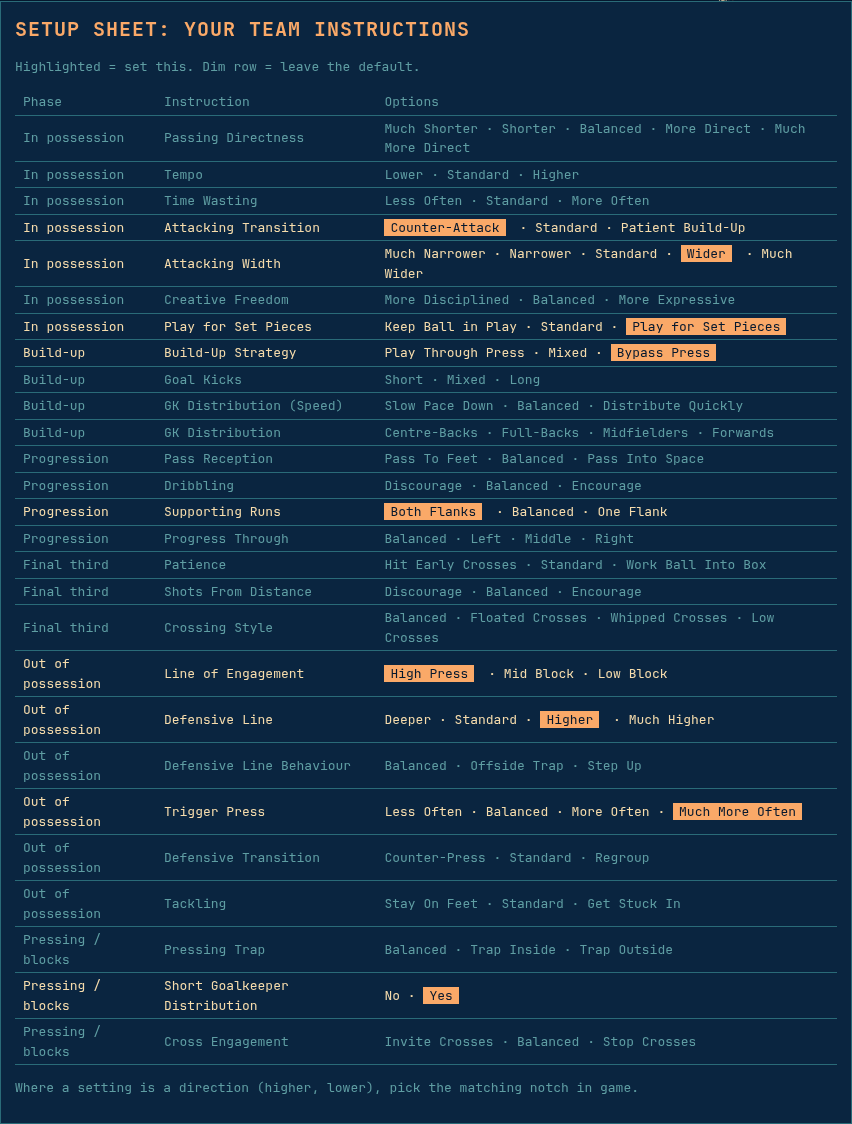
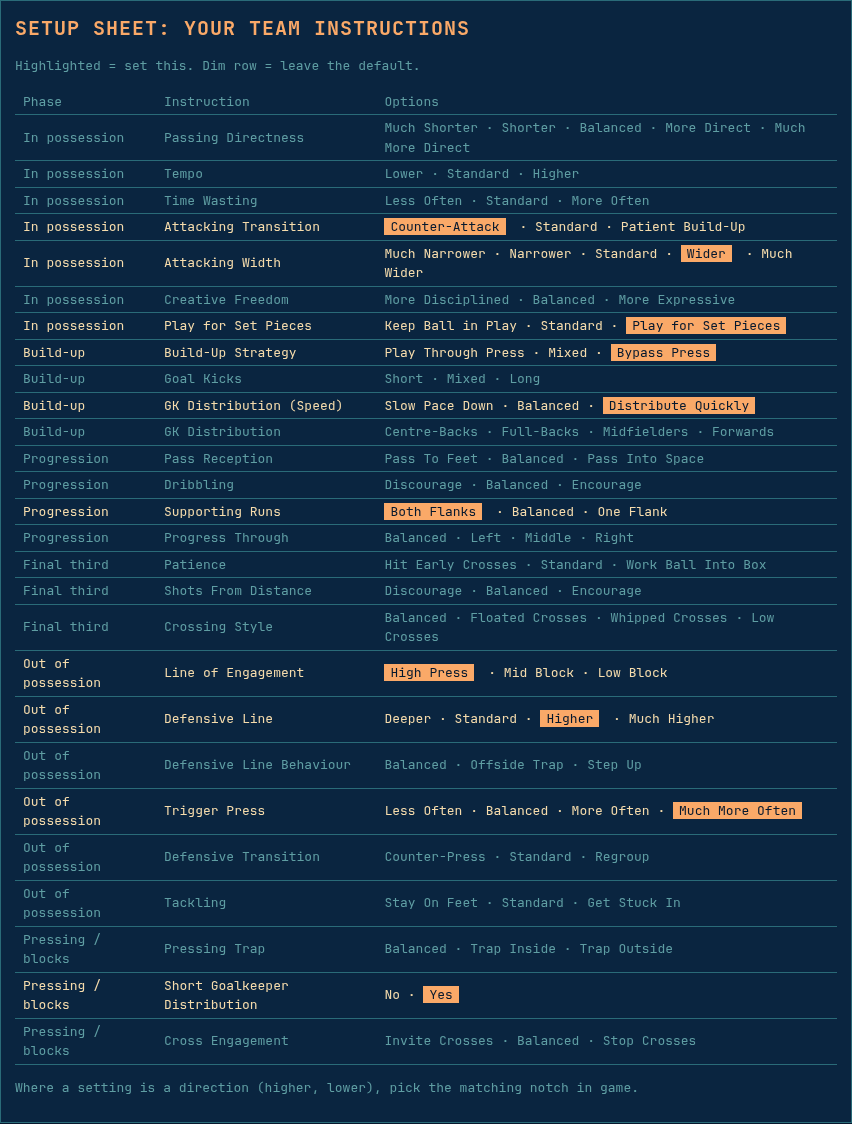
Pressing intensity replaces Their pressing
Uses the game's Trigger Press options; More/Much More Often now does what 'press high' did.

diff --git a/index.html b/index.html
@@ -60,8 +60,7 @@ h3.big{font-size:16px;color:var(--accent);margin-top:0}
     <option value="route">Route One</option><option value="fluid">Fluid Counter-Attack</option>
     <option value="direct">Direct Counter-Attack</option><option value="catenaccio">Catenaccio</option>
     <option value="bus">Park the Bus</option></select></label>
-  <label>How often they trigger the press<select name="trigger"><option value="">Not sure</option><option value="less">Less Often</option><option value="balanced">Balanced</option><option value="more">More Often</option><option value="muchMore">Much More Often</option></select></label>
-  <label>Their pressing<select name="press"><option value="low">Low</option><option value="mid" selected>Mid</option><option value="high">High</option></select></label>
+  <label>Pressing intensity<select name="trigger"><option value="">Not sure</option><option value="less">Less Often</option><option value="balanced">Balanced</option><option value="more">More Often</option><option value="muchMore">Much More Often</option></select></label>
   <label>Their defensive line<select name="line"><option value="deep">Deep</option><option value="standard" selected>Standard</option><option value="high">High</option></select></label>
   <label>Compared to you, they are<select name="strength"><option value="weaker">Weaker</option><option value="even" selected>About even</option><option value="stronger">Stronger</option></select></label>
   <label>Home or away?<select name="venue"><option value="">Not sure</option><option value="home">Home</option><option value="away">Away</option></select></label>
@@ -269,12 +268,11 @@ const MID={...Object.fromEntries(Object.entries(SHAPES).map(([k,v])=>[k,v.mid]))
 // questions on the form: a tick box, or a dropdown when several entries share a key with a `value`.
 // own:true = worked out here, not from the cheat sheets.
 const TWEAKS=[
-  {when:o=>o.press==='high',text:'Buildup Strategy: Bypass press',why:'They press high',set:{'Build-Up Strategy':'Bypass Press'}},
   // Their Trigger Press setting (same options as yours).
-  {when:o=>o.trigger==='more'||o.trigger==='muchMore',text:'Move it before they close in: Build-Up Strategy Bypass Press, GK Distribution (Speed) Distribute Quickly',why:'They trigger the press often',own:true,
+  {when:o=>o.trigger==='more'||o.trigger==='muchMore',text:'Build-Up Strategy: Bypass Press; GK Distribution (Speed): Distribute Quickly - move it before they close in',why:'They press often',
     set:{'Build-Up Strategy':'Bypass Press','GK Distribution (Speed)':'Distribute Quickly'}},
-  {when:o=>o.trigger==='muchMore',text:'Pressing that hard tires them: from 60 min, more balls in behind and fresh legs up front',why:'They trigger the press much more often',own:true},
-  {when:o=>o.trigger==='less',text:'Time on the ball: Build-Up Strategy Play Through Press - pass out from the back',why:'They rarely trigger the press',own:true,
+  {when:o=>o.trigger==='muchMore',text:'Pressing that hard tires them: from 60 min, more balls in behind and fresh legs up front',why:'They press much more often',own:true},
+  {when:o=>o.trigger==='less',text:'Time on the ball: Build-Up Strategy Play Through Press - pass out from the back',why:'They rarely press',own:true,
     set:{'Build-Up Strategy':'Play Through Press'}},
   {when:o=>o.line==='high',text:'Pass Reception: into space behind their line; ST as Channel Forward',why:'They play a high line',set:{'Pass Reception':'Pass Into Space'}},
   {when:o=>o.strength==='stronger',text:'Mentality one notch lower; consider Low Block with 5-4-1 OOP',why:'Stronger opponent (5-4-1: protecting a lead, stronger opponents)',mood:-1},
@@ -327,7 +325,7 @@ function score(o){
   if(o.mentality==='defensive'&&['3-5-2','5-3-2','3-4-2-1','5-2-1-2 DM AM'].includes(o.formation))add('catenaccio',2,`Defensive with a back three (${o.formation})`);
   if(o.line==='deep')add('bus',1,'Deep defensive line');
   if(o.line==='high')add('possession',1,'High defensive line to play in behind');
-  if(o.press==='high')add('gegen',2,'High press: bypass it and run in behind');
+  if(o.trigger==='more'||o.trigger==='muchMore')add('gegen',2,'Presses often: bypass it and run in behind');
   if(o.style==='unknown'&&o.mentality==='balanced')add('vtiki',1,'No clear style: mid block and counter is the safe default');
   return Object.entries(s).map(([k,r])=>({key:k,total:r.reduce((a,x)=>a+x[0],0),reasons:r.map(x=>x[1])}))
     .sort((a,b)=>b.total-a.total);

diff --git a/test/engine.test.js b/test/engine.test.js
@@ -4,7 +4,7 @@ const test=require('node:test'),assert=require('node:assert/strict'),fs=require(
 const html=fs.readFileSync(path.join(__dirname,'..','index.html'),'utf8');
 const src=html.match(/<script id="engine">([\s\S]*?)<\/script>/)[1];
 const {recommend,PLANS,TI,SETS,OOPS,TWEAKS,TABS}=vm.runInNewContext(src+'\n;({recommend,PLANS,TI,SETS,OOPS,TWEAKS,TABS})');
-const base={formation:'4-4-2',mentality:'balanced',style:'unknown',press:'mid',line:'standard',strength:'even',dribblers:false,weakPassers:false,canPress:false};
+const base={formation:'4-4-2',mentality:'balanced',style:'unknown',line:'standard',strength:'even',dribblers:false,weakPassers:false,canPress:false};
 const r=o=>recommend({...base,...o});
 const opts=Object.fromEntries(TI.map(t=>[t.name,t.opts]));
 const checkSet=s=>{for(const[k,v]of Object.entries(s)){assert.ok(opts[k],`unknown instruction ${k}`);assert.ok(opts[k].includes(v),`${k}: ${v}`);}};
@@ -26,8 +26,8 @@ test('count the middle warns when outnumbered', () => {
   assert.equal(r({formation:'4-4-2',mentality:'attacking'}).warns.length,0);
 });
 test('opponent tweaks fire from inputs', () => {
-  const t=r({press:'high',line:'high',weakPassers:true,dribblers:true}).tweaks.map(x=>x.text).join('|');
-  for(const s of ['Bypass press','Pass Reception','Short Goalkeeper Distribution','Tackling'])assert.ok(t.includes(s),s);
+  const t=r({trigger:'more',line:'high',weakPassers:true,dribblers:true}).tweaks.map(x=>x.text).join('|');
+  for(const s of ['Bypass Press','Pass Reception','Short Goalkeeper Distribution','Tackling'])assert.ok(t.includes(s),s);
 });
 test('every plan has a shape, settings, and the force switch works', () => {
   for(const k of Object.keys(PLANS)){assert.ok(PLANS[k].ipShape&&PLANS[k].oop&&PLANS[k].tab,k);assert.ok(SETS[k],k);assert.equal(recommend(base,k).plan,k);}
@@ -40,7 +40,7 @@ test('wing play -> Wing Play plan with back-five OOP', () => {
 test('every plan, tweak and shape-counter setting names a real instruction and option', () => {
   for(const s of Object.values(SETS))checkSet(s);
   for(const c of Object.values(OOPS))checkSet(c.set);
-  checkSet(r({press:'high',line:'high',weakPassers:true,dribblers:true}).set);
+  checkSet(r({trigger:'more',line:'high',weakPassers:true,dribblers:true}).set);
 });
 test('setup sheet follows the plan and tweaks', () => {
   assert.equal(r({style:'possession',canPress:true}).set['Line of Engagement'],'High Press');
@@ -51,14 +51,14 @@ test('their OOP shape fills gaps in the setup sheet, plan wins clashes', () => {
   const x=r({style:'vtiki',oopShape:'4-1-4-1'}); // plan sets More Direct; leaves Build-Up Strategy alone
   assert.equal(x.set['Build-Up Strategy'],'Play Through Press');
   assert.equal(x.clashes.map(c=>c.split(':')[0]).join(),'Passing Directness');
-  assert.equal(r({style:'vtiki',oopShape:'4-1-4-1',press:'high'}).set['Build-Up Strategy'],'Bypass Press'); // tweak wins
+  assert.equal(r({style:'vtiki',oopShape:'4-1-4-1',trigger:'more'}).set['Build-Up Strategy'],'Bypass Press'); // tweak wins
   assert.equal(r({style:'vtiki',oopShape:'5-4-1'}).set['Attacking Width'],'Wider');
   assert.equal(r({}).oopC,null);
 });
 test('Bypass press only when they press (PDF: "if they press you")', () => {
   for(const style of ['possession','vtiki'])for(const canPress of [false,true]){
     assert.equal(r({style,canPress}).set['Build-Up Strategy'],undefined);
-    assert.equal(r({style,canPress,press:'high'}).set['Build-Up Strategy'],'Bypass Press');
+    assert.equal(r({style,canPress,trigger:'more'}).set['Build-Up Strategy'],'Bypass Press');
   }
 });
 test('scout report: where they score decides crosses vs stepping up', () => {
@@ -125,7 +125,7 @@ test('their 4-2-4 out of possession -> three central players and counter setting
 });
 
 test('a chosen playstyle wins even when everything else points elsewhere', () => {
-  const deep={formation:'5-4-1',mentality:'defensive',line:'deep',press:'high'};
+  const deep={formation:'5-4-1',mentality:'defensive',line:'deep',trigger:'more'};
   for(const k of TABS)assert.ok(r({...deep,style:k}).plan.startsWith(k),k);
   for(const k of TABS)assert.ok(r({formation:'4-2-4',mentality:'attacking',line:'high',style:k}).plan.startsWith(k),k);
 });

diff --git a/README.md b/README.md
@@ -10,7 +10,7 @@ A counter-tactic helper for Football Manager 27. Describe the opponent (their in
 
 ## Screenshots
 
-Against a Control Possession side in a 4-3-3 that presses high: the counter plan, your mentality and shapes, and the tweaks from the scout report.
+Against a Control Possession side in a 4-3-3 that presses often: the counter plan, your mentality and shapes, and the tweaks from the scout report.
 
 ![Overview: opponent inputs, scout report and the recommended plan](screenshots/overview.png)
 
